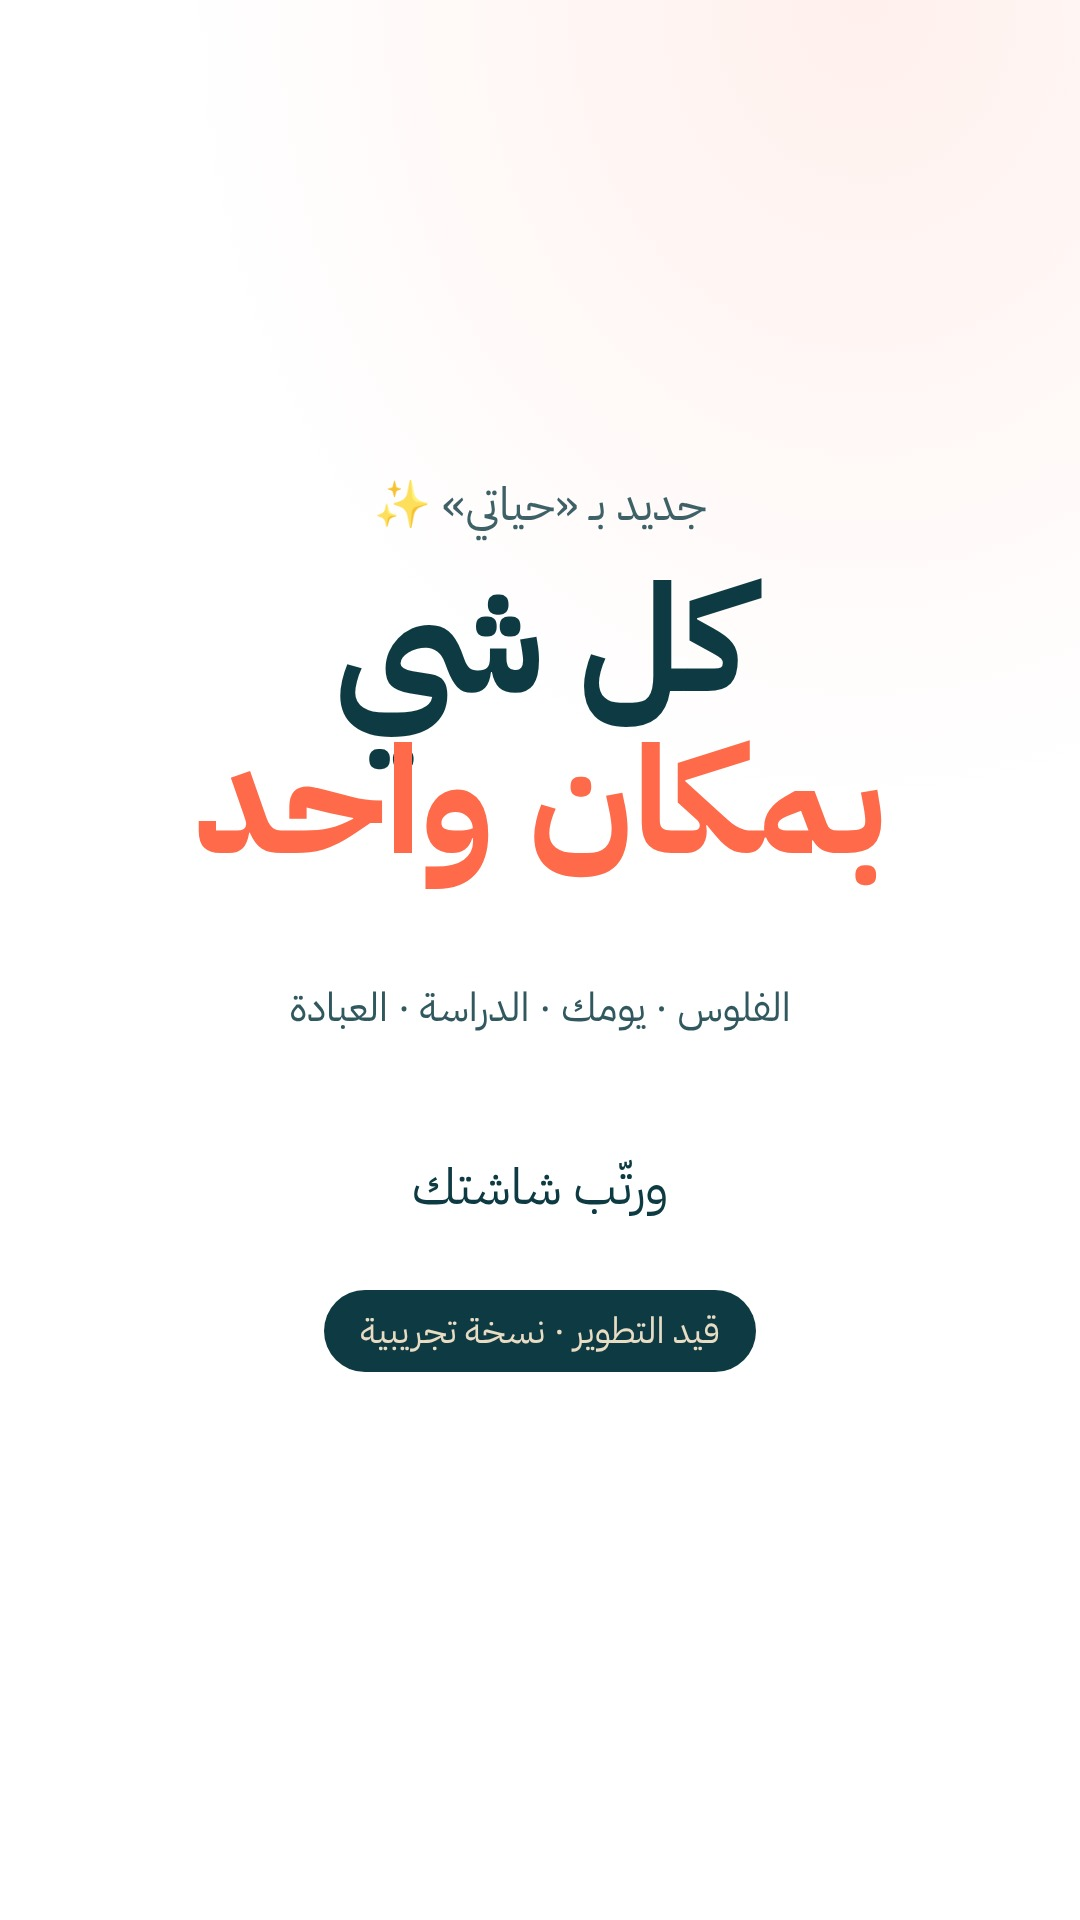
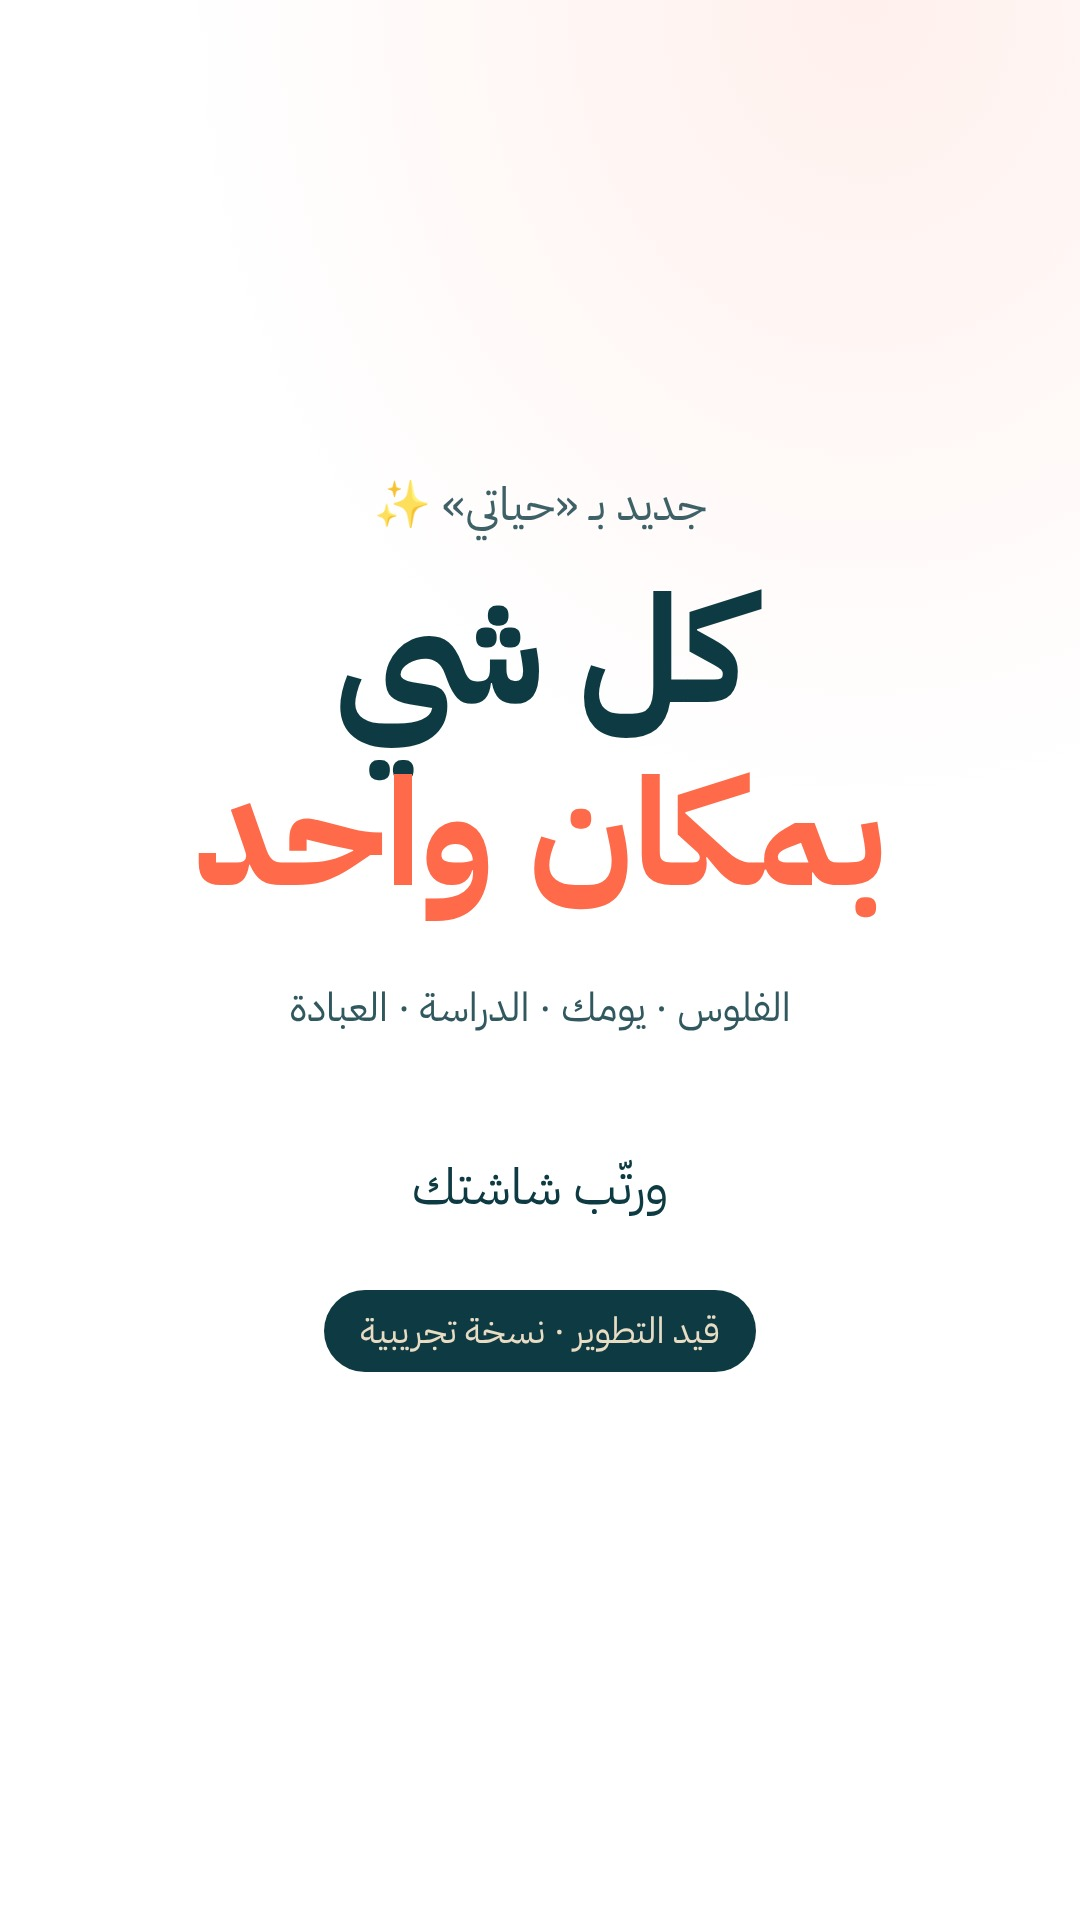
DW-016 white cover: more line spacing
Claude-Session: https://claude.ai/code/session_01AXqw1919FcrLaaxuJmUf2G

Changed region(s): [[0.4889, 0.2812, 0.825, 0.5], [0.1833, 0.3125, 0.4889, 0.5]]

diff --git a/videos/hayati-dev/DW-016/cover-white.js b/videos/hayati-dev/DW-016/cover-white.js
@@ -8,7 +8,7 @@ const html = `<!doctype html><meta charset=utf-8><style>@font-face{font-family:P
 .bar{width:620px;height:26px;border-radius:13px;background:rgba(232,220,196,.15);margin:0 auto;overflow:hidden}.bar i{display:block;height:100%;width:36%;background:#0d9488;border-radius:13px}
 .pill{display:inline-block;padding:14px 36px;border-radius:999px;background:#0E3B43;color:#E8DCC4;font:400 36px P}</style>
 <div class="a" style="top:470px;font:400 46px P;opacity:.8">جديد بـ «حياتي» ✨</div>
-<div class="a" style="top:560px;font-size:150px;line-height:1.08">كل شي<br><span class="c">بمكان واحد</span></div>
+<div class="a" style="top:560px;font-size:150px;line-height:1.22">كل شي<br><span class="c">بمكان واحد</span></div>
 <div class="a" style="top:960px"><div style="margin-top:18px;font:400 40px P;opacity:.85">الفلوس · يومك · الدراسة · العبادة</div></div>
 <div class="a" style="top:1150px;font:400 50px P">ورتّب شاشتك</div>
 <div class="a" style="top:1290px"><span class="pill">قيد التطوير · نسخة تجريبية</span></div>`;
